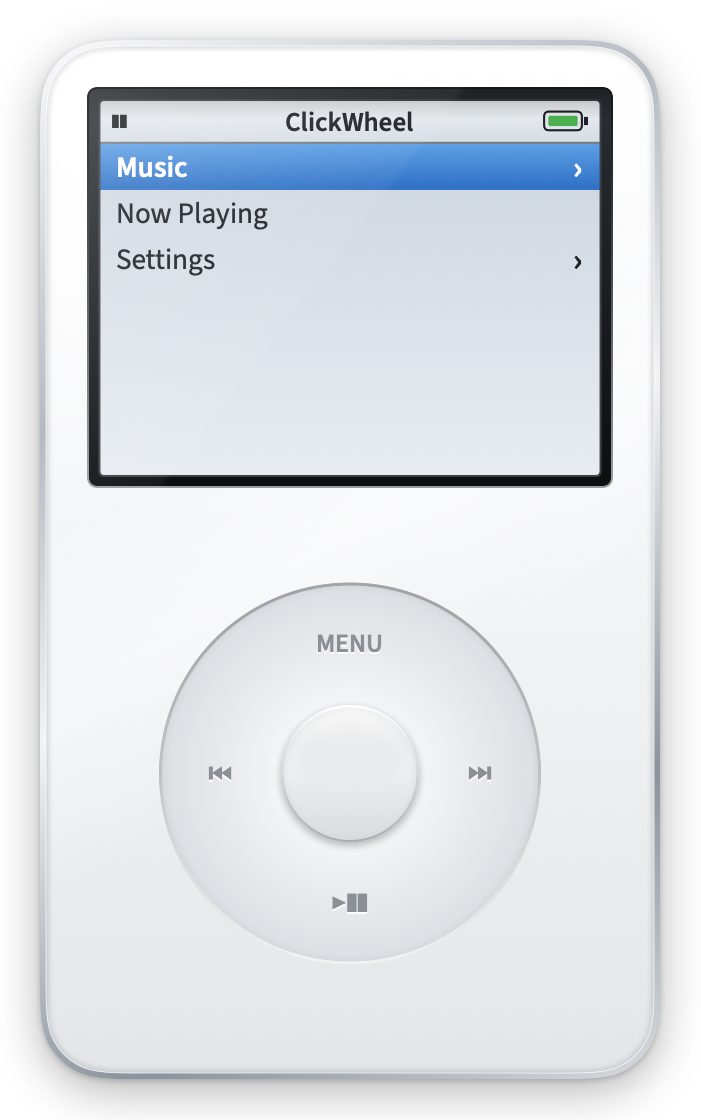
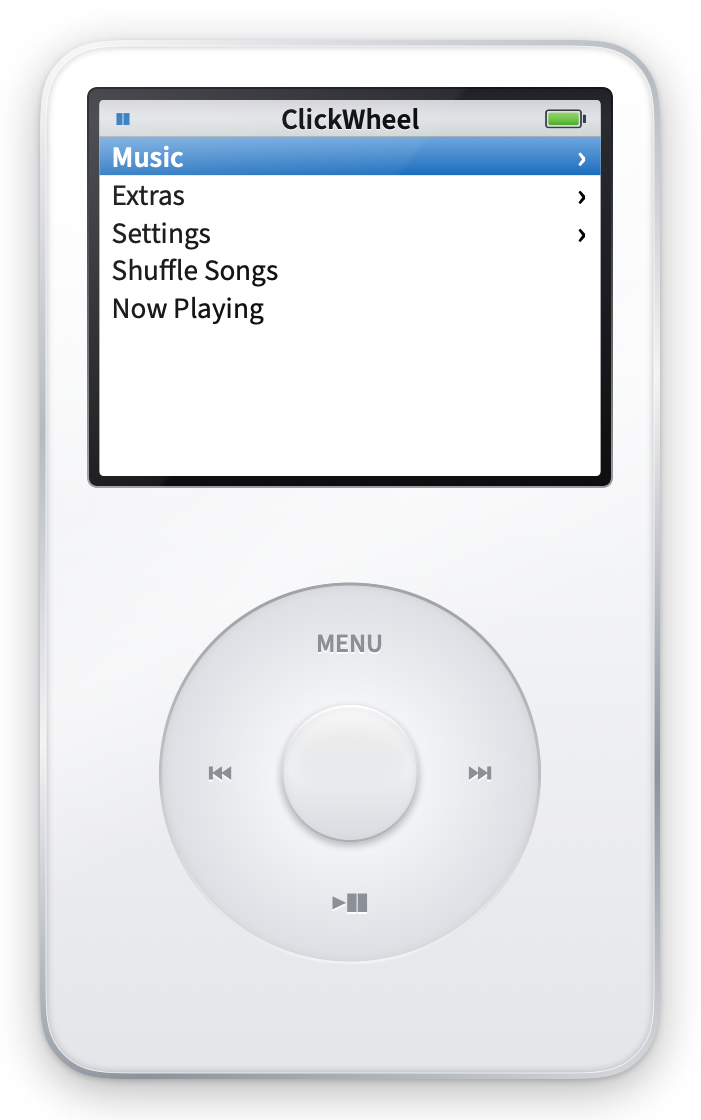
docs: authentic 5G README

Changed region(s): [[0.1198, 0.0938, 0.8688, 0.4375]]

diff --git a/README.md b/README.md
@@ -12,19 +12,34 @@ whichever one is playing.
 
 ## Features
 
-- Borderless floating window: drag it anywhere, right-click for **Keep on Top** / **Quit**.
-- **Now Playing**: artwork, title, artist, album, progress, elapsed / remaining time.
-- **Click wheel**: drag in a circle to scroll (or change volume on Now Playing),
-  center to select, MENU to go back, ⏮ / ⏭ to skip, ▶❚❚ to play/pause.
-- **Keyboard**: ↑ ↓ scroll, Return selects, Esc goes back, Space plays/pauses.
-- **Settings**: source (Auto / Apple Music / Spotify), clicker sound on/off.
+- **Life size**: drawn to Apple's dimensional drawing of the iPod (5th generation),
+  scaled to your display's real density, so it measures 61.8 × 103.5 mm on screen.
+- **The 5G colour screen**: gradient title bar, white 9-row menus with the blue
+  selection bar, marquee for long names, and slide transitions.
+- **Now Playing**: "x of y", album art, title / artist / album and the glossy
+  progress bar. Turn the wheel for the volume bar. Press Center for the
+  scrubber (◆), then turn to seek.
+- **Click wheel**:
+  - Drag in a circle to scroll, with gentle acceleration when you spin fast and
+    Quick Scroll letters in long lists.
+  - Tap the buttons: MENU (back), ⏮ (restart, or previous track), ⏭ (next),
+    ▶❚❚ (play/pause), center (select).
+  - Hold them: hold MENU to jump to the main menu; hold ⏭ or ⏮ to fast-forward
+    or rewind.
+  - A 1 kHz clicker ticks as you scroll.
+- **Keyboard**: ↑ ↓ scroll; ← ⏮, → ⏭, Return center, Esc MENU, Space ▶❚❚
+  (holds work too).
+- **Main menu**: Music, Extras (Clock, Stopwatch), Settings, Shuffle Songs, and
+  Now Playing while something plays.
 - **Music** (Apple Music library): Playlists, Artists, Albums and Songs. Picking a
   song plays it in context: the rest of the playlist, album or song list follows.
+- **Settings**: source (Auto / Apple Music / Spotify), clicker on/off.
+- Borderless floating window: drag it anywhere; right-click for **Keep on Top** or **Quit**.
 
-Albums, artists and Songs play through a playlist named **ClickWheel**, which
-ClickWheel creates in your Music library and refills each time. It syncs to your
-other devices with the rest of your library. Opening the Music menu launches
-Music if it isn't running.
+Albums, artists, Songs and Shuffle Songs play through a playlist named
+**ClickWheel**, which ClickWheel creates in your Music library and refills each
+time. It syncs to your other devices with the rest of your library. Opening a
+Music list launches Music if it isn't running.
 
 ## Build
 
@@ -53,4 +68,7 @@ System Settings → Privacy & Security → Automation.
 
 - [Source Sans 3](https://github.com/adobe-fonts/source-sans) by Adobe, under the
   SIL Open Font License (see `ClickWheel/Resources/Fonts/OFL.txt`).
+- Screen layout and colour values are modified/derived from the **iVideo** theme
+  for iPod Video (CC-BY-SA 3.0) by Humberto Santana; see
+  `docs/reference/ipod-5g-screen-values.md`.
 - MIT licensed. See [LICENSE](LICENSE).
